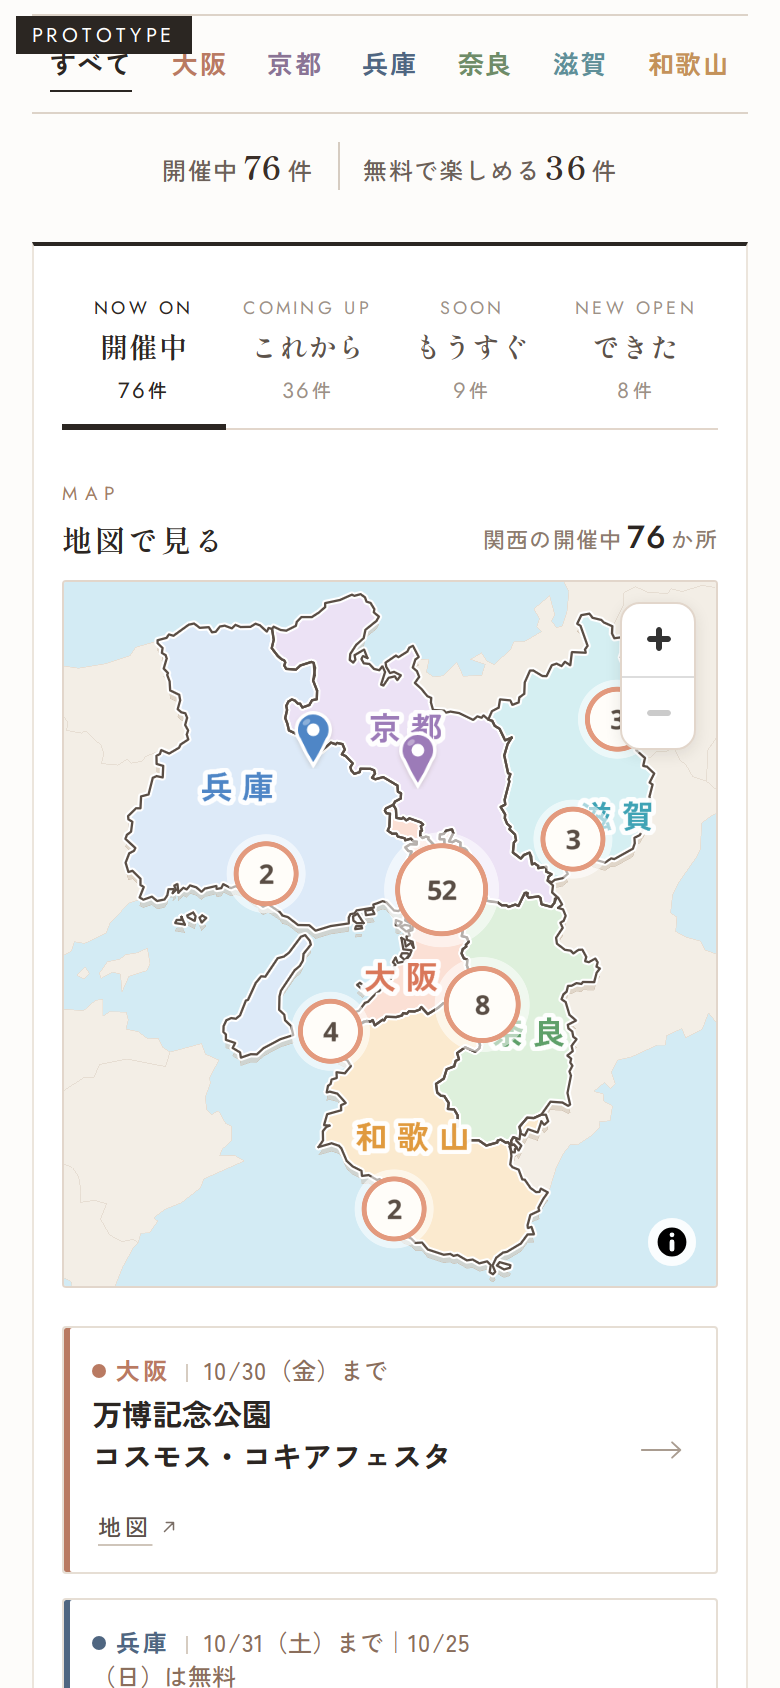
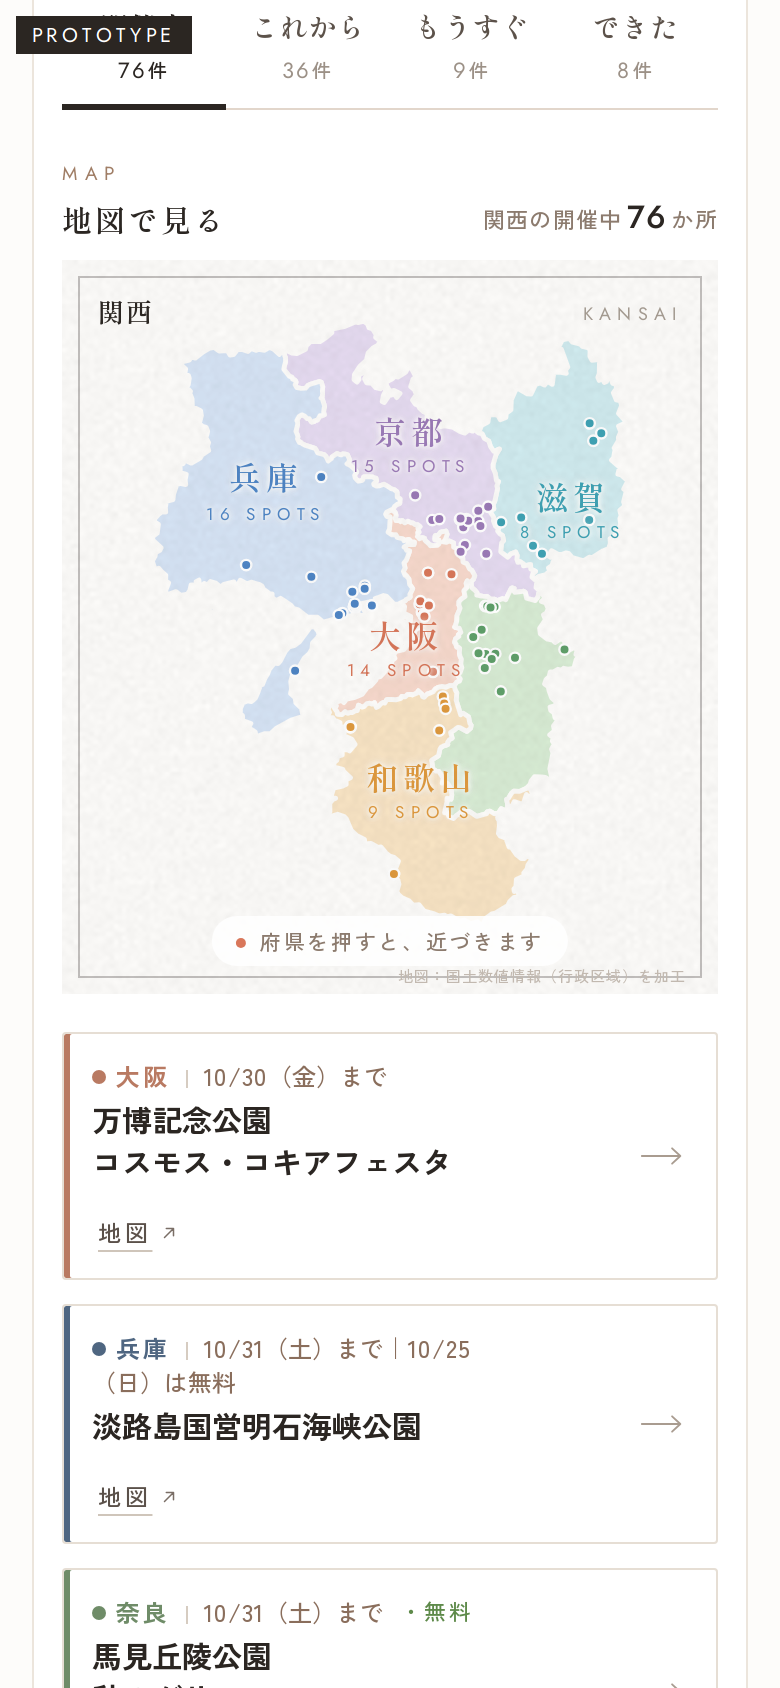
TOWN NOTES 試作：府県ボタンと件数を地図のすぐ上へ (#169)
* TOWN NOTES（仮）: おでかけ先の場所を緯度経度にする仕組み

Claude-Session: https://claude.ai/code/session_012U6So1FwuhCU8YQS91whDj

* TOWN NOTES（仮）: 地図とピンの仮ページ（links/townnotes/）

Claude-Session: https://claude.ai/code/session_012U6So1FwuhCU8YQS91whDj

* townnotes: geo.json

* TOWN NOTES（仮）: 今のおでかけリストに地図とピンを組み込んだ試作

Claude-Session: https://claude.ai/code/session_012U6So1FwuhCU8YQS91whDj

* 古い試作テンプレートを消す

Claude-Session: https://claude.ai/code/session_012U6So1FwuhCU8YQS91whDj

* townnotes: geo.json

* TOWN NOTES（仮）: もうすぐのピンを点線の輪に

Claude-Session: https://claude.ai/code/session_012U6So1FwuhCU8YQS91whDj

* TOWN NOTES（仮）: 地図を指で拡大できる明るい地図に（区名・駅名つき）

Claude-Session: https://claude.ai/code/session_012U6So1FwuhCU8YQS91whDj

* townnotes: shots

* TOWN NOTES（仮）: 府県名・まとまりの丸・出典の表示を直す

Claude-Session: https://claude.ai/code/session_012U6So1FwuhCU8YQS91whDj

* townnotes: shots

* TOWN NOTES（仮）: イラストの地図に戻す（府県・市区町村の形だけ、明るい色、指で拡大）

Claude-Session: https://claude.ai/code/session_012U6So1FwuhCU8YQS91whDj

* townnotes: shots

* TOWN NOTES（仮）: 府県を選んだとき、ほかの府県は薄いベージュに

Claude-Session: https://claude.ai/code/session_012U6So1FwuhCU8YQS91whDj

* townnotes: shots

* TOWN NOTES 試作 v5: 押すだけで 関西→府県→市・区 と寄る地図（指2本なし）

Claude-Session: https://claude.ai/code/session_012U6So1FwuhCU8YQS91whDj

* townnotes: shots

* TOWN NOTES 試作: 府県ボタンと件数を地図のすぐ上へ

Claude-Session: https://claude.ai/code/session_012U6So1FwuhCU8YQS91whDj

---------

diff --git a/links/townnotes/map.js b/links/townnotes/map.js
@@ -17,6 +17,7 @@ function P(lon,lat){return [(lon-134)*82.2,(36-lat)*100]}
 // ---- 見た目 ----
 var css=`
 .tn{margin:0 0 18px}
+.tn-top{padding:6px 0 0}.tn-top .flt{margin:0 0 12px;gap:0 13px;flex-wrap:nowrap}.tn-top .cnt{margin:0 0 6px}
 .tn .hd{display:flex;justify-content:space-between;align-items:flex-end;margin:2px 0 10px}
 .tn .hd .e{font-family:Jost,sans-serif;font-size:9.5px;letter-spacing:.36em;color:#A07E66}
 .tn .hd .j{display:block;font-family:"Shippori Mincho",serif;font-weight:600;font-size:15px;letter-spacing:.1em;color:#2B2622;margin-top:4px}
@@ -187,7 +188,13 @@ function toList(it){var w=it.w;if(w.classList.contains("cap")){var m=$(".cmore",
  w.classList.add("tnf");w.style.setProperty("--pc",PC[it.pref]||"#2B2622");w.scrollIntoView({behavior:"smooth",block:"center"});setTimeout(function(){w.classList.remove("tnf")},2200)}
 
 // ---- 今のページとつなぐ ----
-function mount(){var bar=$(".tabs");if(bar&&bar.nextSibling!==box)bar.parentNode.insertBefore(box,bar.nextSibling);}
+function mount(){var bar=$(".tabs");if(!bar)return;
+ // 府県ボタンと件数は、地図のすぐ上へ（タブ → 府県 → 件数 → 地図）
+ var top=$(".tn-top");if(!top){top=document.createElement("div");top.className="tn-top"}
+ ["flt","none"].forEach(function(id){var e=document.getElementById(id);if(e&&e.parentNode!==top)top.appendChild(e)});
+ var c=$(".cnt");if(c&&c.parentNode!==top)top.appendChild(c);
+ if(bar.nextSibling!==top)bar.parentNode.insertBefore(top,bar.nextSibling);
+ if(top.nextSibling!==box)top.parentNode.insertBefore(box,top.nextSibling);}
 function sync(){mount();if(!ready)return;var pf=curPref(),sig=pf+"|"+curTab();if(sig===lastSig)return;var first=!lastSig,pfChanged=first||lastSig.split("|")[0]!==pf;lastSig=sig;
  list=items();$(".lg",box).style.display=curTab()==="もうすぐ"?"flex":"none";sel=null;pop.classList.remove("on");
  if(pfChanged){state.pref=pf;state.muni=null;if(first){vb=fit(HOME,.02);render()}else goPref()}else render();}

diff --git a/tools/townnotes/map.src.js b/tools/townnotes/map.src.js
@@ -17,6 +17,7 @@ function P(lon,lat){return [(lon-134)*82.2,(36-lat)*100]}
 // ---- 見た目 ----
 var css=`
 .tn{margin:0 0 18px}
+.tn-top{padding:6px 0 0}.tn-top .flt{margin:0 0 12px;gap:0 13px;flex-wrap:nowrap}.tn-top .cnt{margin:0 0 6px}
 .tn .hd{display:flex;justify-content:space-between;align-items:flex-end;margin:2px 0 10px}
 .tn .hd .e{font-family:Jost,sans-serif;font-size:9.5px;letter-spacing:.36em;color:#A07E66}
 .tn .hd .j{display:block;font-family:"Shippori Mincho",serif;font-weight:600;font-size:15px;letter-spacing:.1em;color:#2B2622;margin-top:4px}
@@ -187,7 +188,13 @@ function toList(it){var w=it.w;if(w.classList.contains("cap")){var m=$(".cmore",
  w.classList.add("tnf");w.style.setProperty("--pc",PC[it.pref]||"#2B2622");w.scrollIntoView({behavior:"smooth",block:"center"});setTimeout(function(){w.classList.remove("tnf")},2200)}
 
 // ---- 今のページとつなぐ ----
-function mount(){var bar=$(".tabs");if(bar&&bar.nextSibling!==box)bar.parentNode.insertBefore(box,bar.nextSibling);}
+function mount(){var bar=$(".tabs");if(!bar)return;
+ // 府県ボタンと件数は、地図のすぐ上へ（タブ → 府県 → 件数 → 地図）
+ var top=$(".tn-top");if(!top){top=document.createElement("div");top.className="tn-top"}
+ ["flt","none"].forEach(function(id){var e=document.getElementById(id);if(e&&e.parentNode!==top)top.appendChild(e)});
+ var c=$(".cnt");if(c&&c.parentNode!==top)top.appendChild(c);
+ if(bar.nextSibling!==top)bar.parentNode.insertBefore(top,bar.nextSibling);
+ if(top.nextSibling!==box)top.parentNode.insertBefore(box,top.nextSibling);}
 function sync(){mount();if(!ready)return;var pf=curPref(),sig=pf+"|"+curTab();if(sig===lastSig)return;var first=!lastSig,pfChanged=first||lastSig.split("|")[0]!==pf;lastSig=sig;
  list=items();$(".lg",box).style.display=curTab()==="もうすぐ"?"flex":"none";sel=null;pop.classList.remove("on");
  if(pfChanged){state.pref=pf;state.muni=null;if(first){vb=fit(HOME,.02);render()}else goPref()}else render();}
